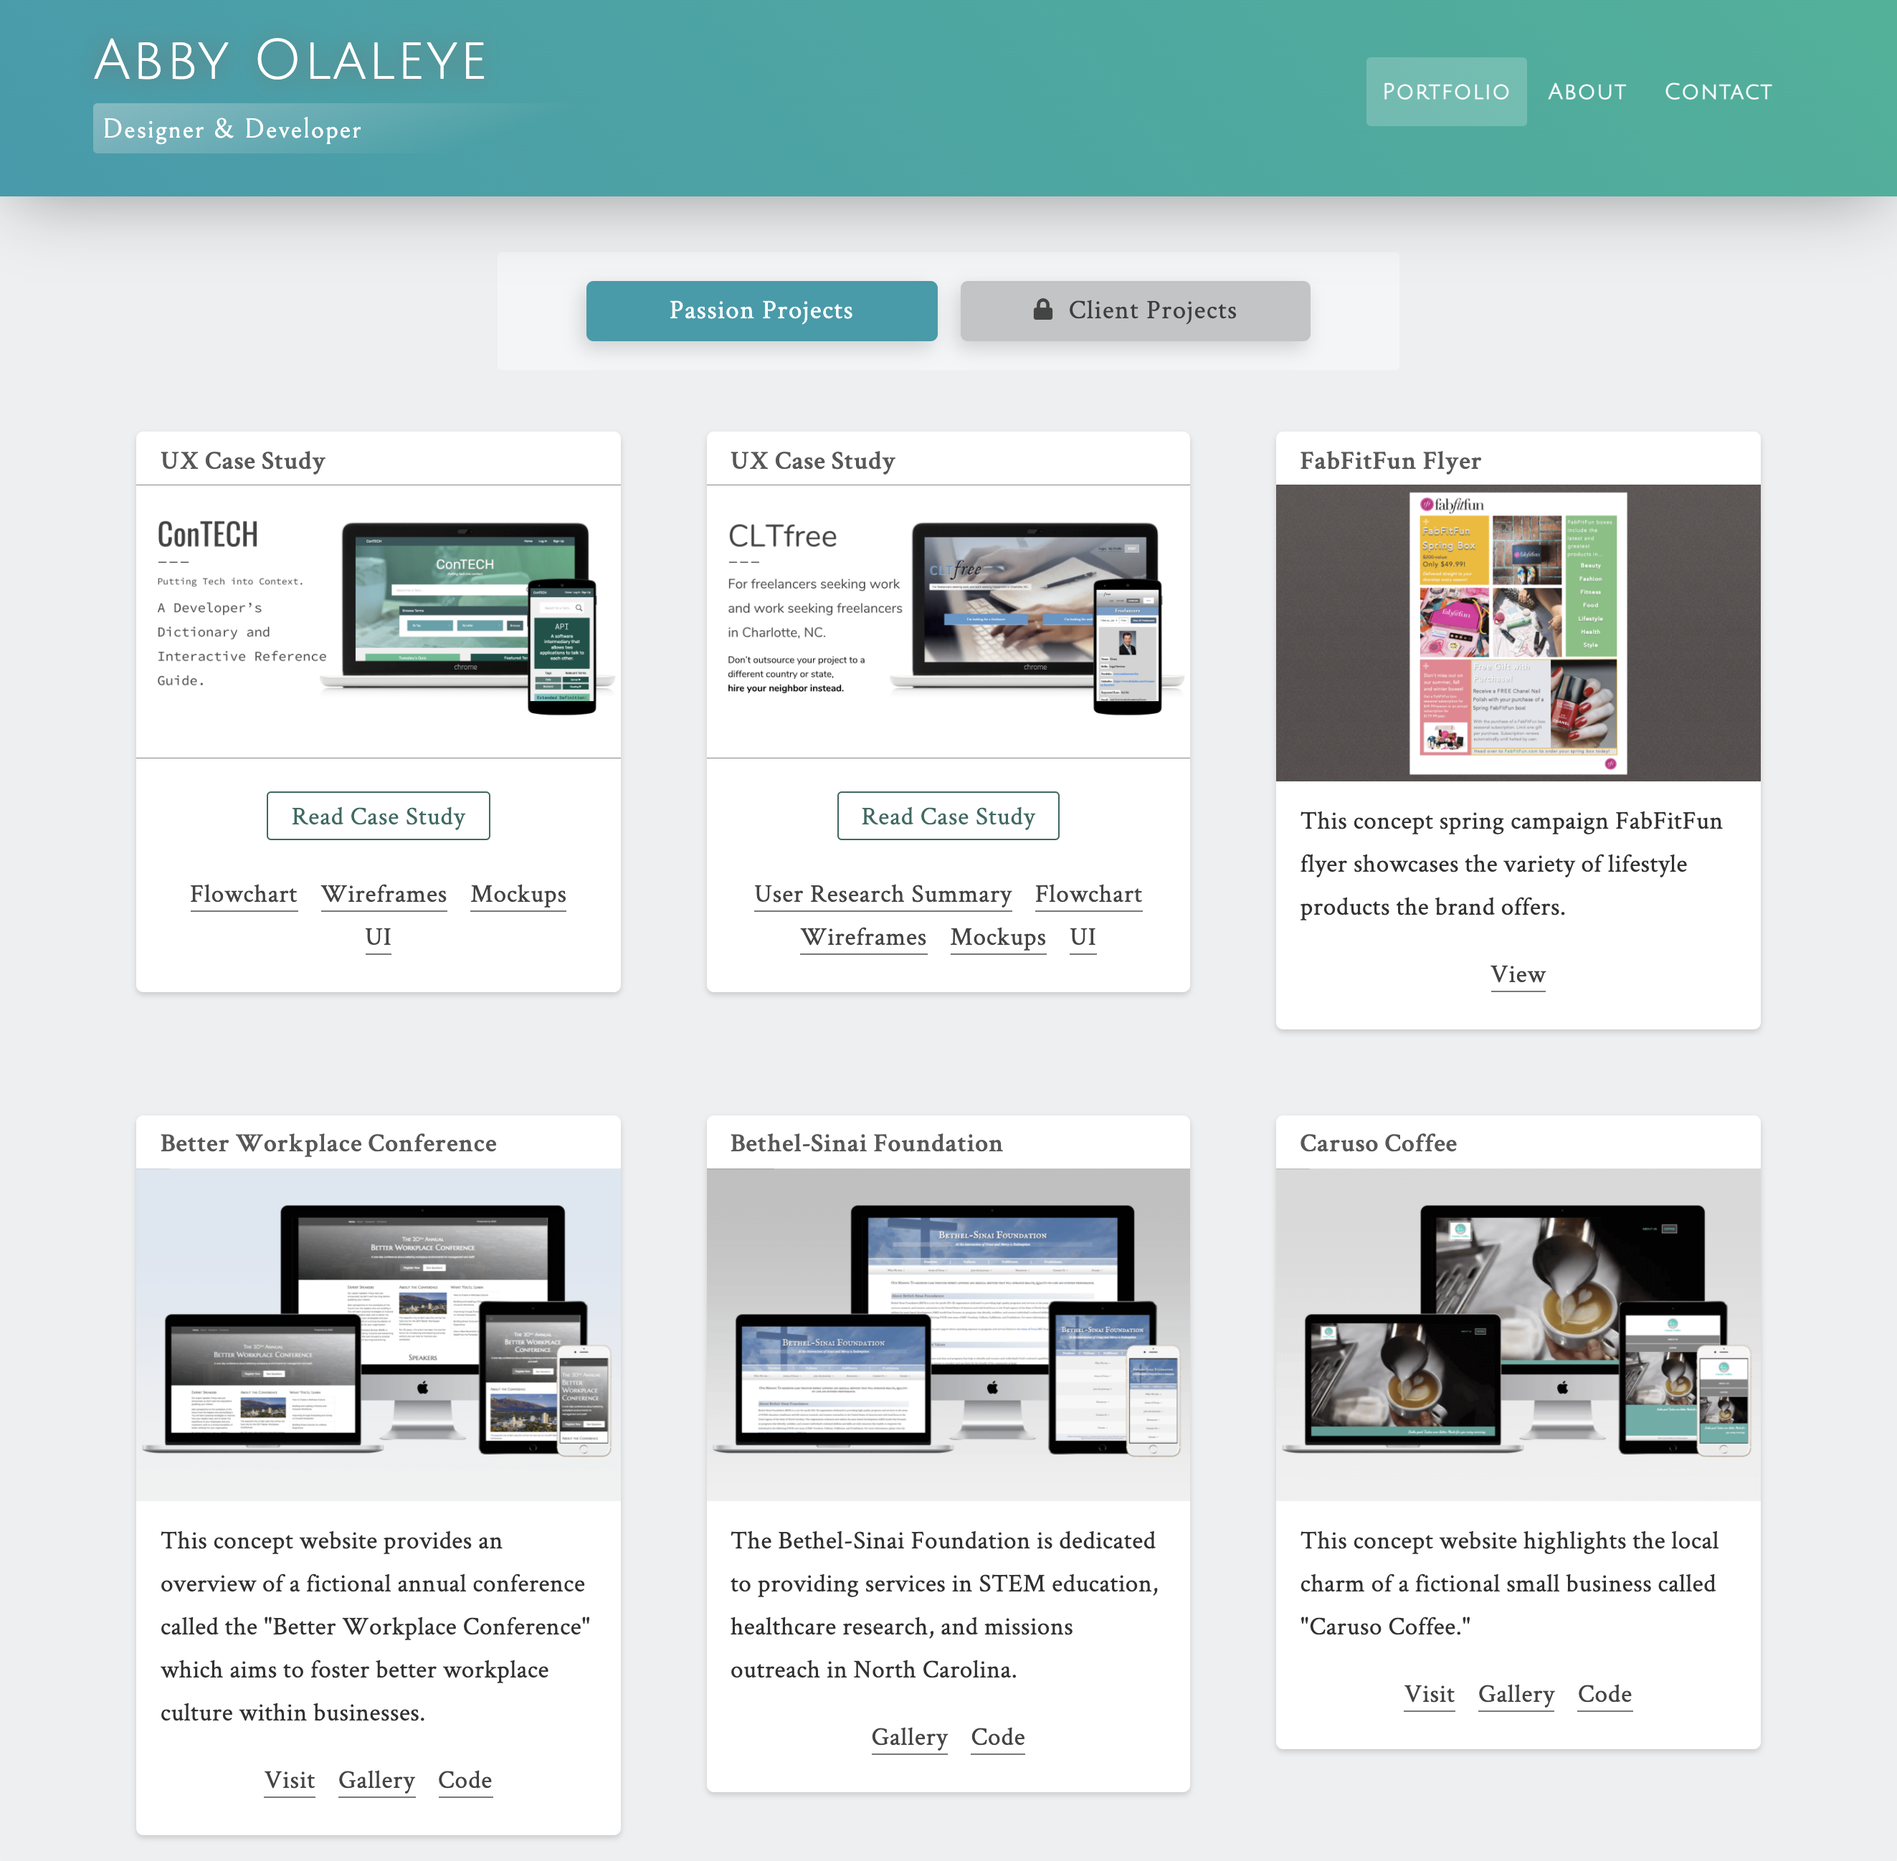
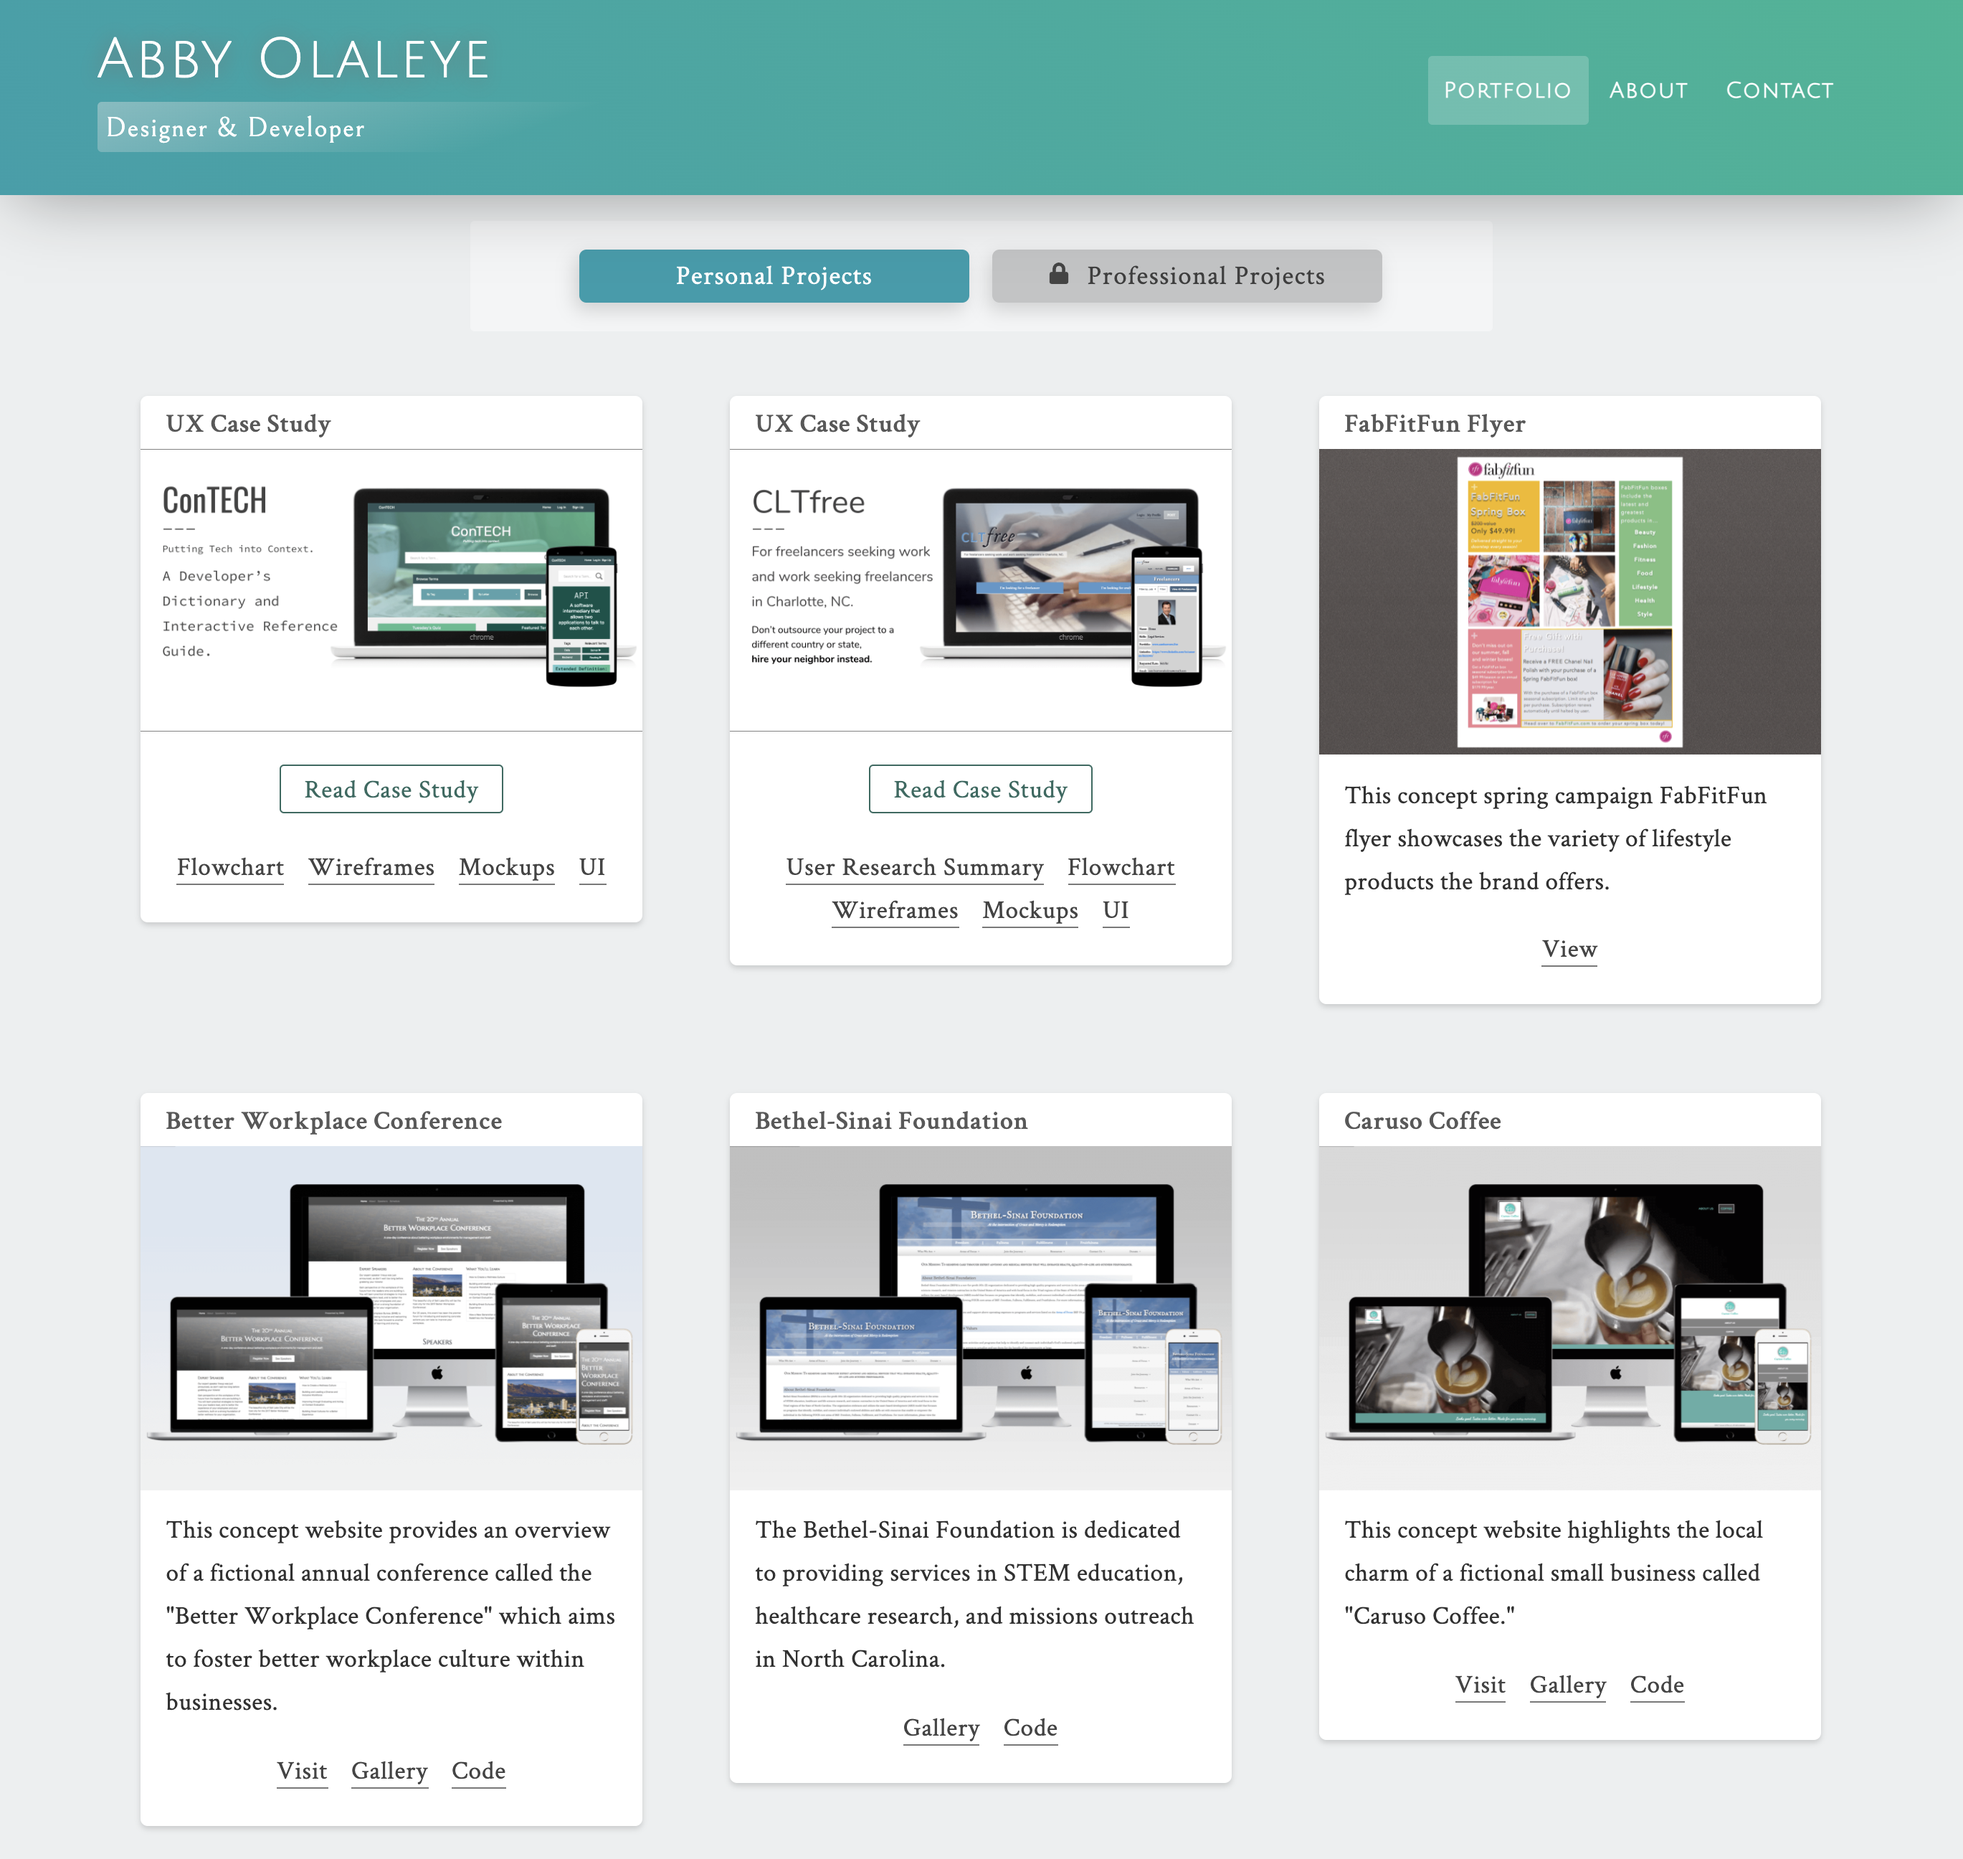
update content

diff --git a/css/main.css b/css/main.css
@@ -81,9 +81,10 @@ header {
   display: flex;
   flex-direction: column;
   justify-content: center;
+  align-items: center;
   text-align: center;
   background: rgba(123, 122, 122, 0.4);
-  padding: .25rem 1rem;
+  padding: .25rem 1rem .45rem;
   border-radius: 5px;
   min-width: 30%;
   cursor: pointer;
@@ -91,6 +92,7 @@ header {
   box-shadow: -3px 5px 13px 0 rgba(0, 0, 0, 0.15); 
   margin: 0 .5rem;
   color: #3e3e3e;
+  line-height: initial;
 }
 
 .filter li:hover {
@@ -98,10 +100,11 @@ header {
   color: white !important;
 }
 
-.filter li .subnote {
-  /* margin: -5px 0 0; */
-  font-size: 14px;
-  margin: 4px 0 -8px;
+.lock-icon {
+  margin: 5px 0;
+  width: 15px;
+  height: 15px;
+  transition-duration: .3s;
 }
 
 /* .ux img {
@@ -447,18 +450,11 @@ PAGE: PORTFOLIO
   display: none;
 }
 
-.lock-icon {
-  width: 15px;
-  height: 15px;
-  margin: 0 10px 0 0;
-  transition-duration: .3s;
-}
-
-.ux-category {
+/* .ux-category {
   display: flex !important;
   flex-direction: row !important;
   align-items: center !important;
-}
+} */
 
 /***********************************
 PAGE: ABOUT
@@ -1269,6 +1265,17 @@ Responsive Layout
 ************************************/
 
 /*mobile landscape layout*/
+@media screen and (min-width: 400px) {
+  .filter li {
+    flex-direction: row;
+  }
+
+  .lock-icon {
+    margin: 0 12px 0 0;
+  }
+}
+
+/*mobile landscape layout*/
 @media screen and (min-width: 660px) {
 
   /***********************************
@@ -1365,7 +1372,6 @@ Responsive Layout
 
   .portfolio-wrapper {
     max-width: 1800px;
-    margin: 0 auto;
   }
 
   .wrapper {
@@ -1512,10 +1518,10 @@ Responsive Layout
   }
   
   .filter li {
-    padding: 0.25rem 3rem 0.5rem;
+    padding: 0.25rem 1.5rem 0.45rem;
     font-size: 1.1em;
     margin: 0 .5rem;
-    /* border: 2px solid white; */
+    min-width: 14rem;
   }
 
 }

diff --git a/index.html b/index.html
@@ -52,7 +52,7 @@
       <li class="ui-category">UI</li> -->
       <li class="dev-category">Personal Projects</li>
       <li class="ux-category">
-        <img src="svg/lock.svg" alt="lock icon" class="lock-icon">Client Projects
+        <img src="svg/lock.svg" alt="lock icon" class="lock-icon">Professional Projects
         <!-- <p class="subnote"><img src="svg/lock.svg" alt="lock icon" class="lock-icon"></p> -->
       </li>
     </ul>
